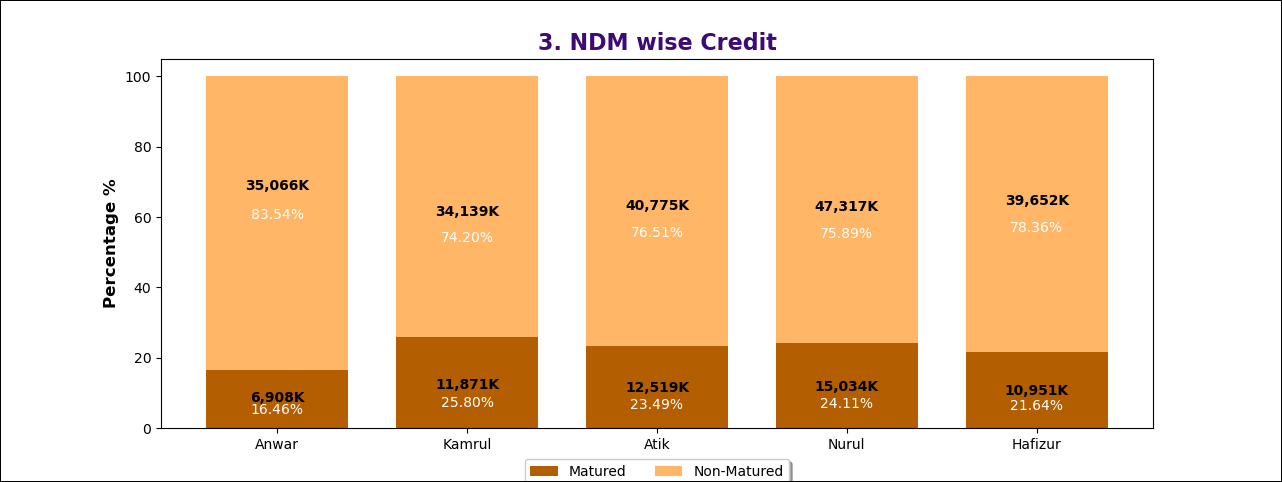
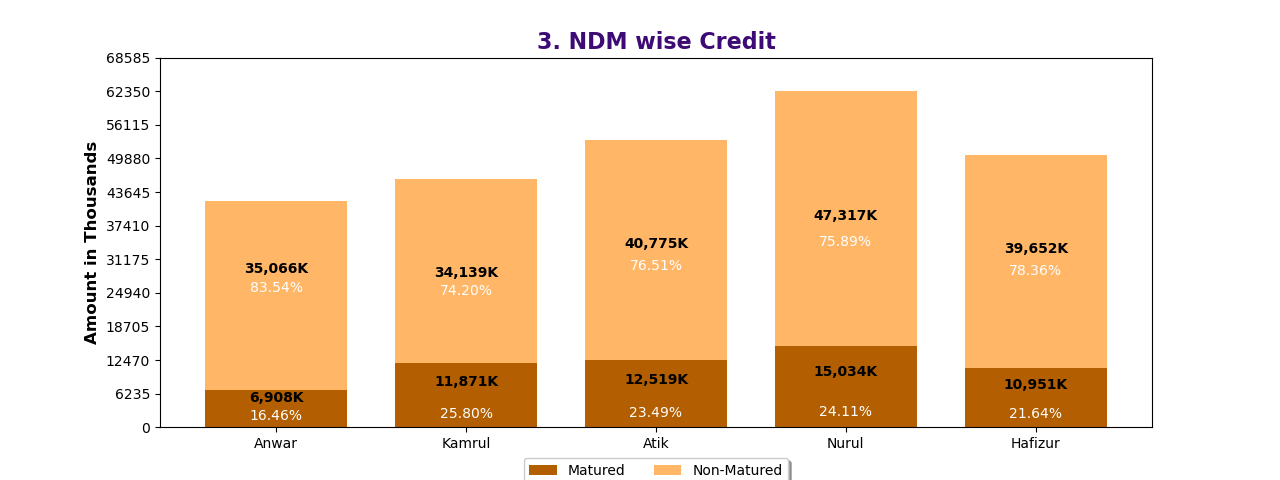
Update ndm credit outstanding

diff --git a/Functions/updated_ndm_outstanding.py b/Functions/updated_ndm_outstanding.py
@@ -1,0 +1,171 @@
+import Functions.all_library as lib
+import Functions.all_function as fn
+
+def ndm_wise_outstanding():
+    anwar_df = lib.pd.read_sql_query("""
+            Select case when Days_Diff>0 then 'Matured Credit' else 'Regular Credit' End as  'Category',Sum(OUT_NET) as Amount from
+            (select INVNUMBER,INVDATE,
+            CUSTOMER,TERMS,MAINCUSTYPE,
+            CustomerInformation.CREDIT_LIMIT_DAYS,
+            datediff([dd] , CONVERT (DATETIME , LTRIM(cust_out.INVDATE) , 102) , GETDATE())+1-CREDIT_LIMIT_DAYS as Days_Diff,
+            OUT_NET from [ARCOUT].dbo.[CUST_OUT]
+            join ARCHIVESKF.dbo.CustomerInformation
+            on [CUST_OUT].CUSTOMER = CustomerInformation.IDCUST
+            where
+            [ARCOUT].dbo.[CUST_OUT].AUDTORG IN ('BOGSKF','MYMSKF', 'FRDSKF', 'TGLSKF', 'RAJSKF', 'SAVSKF') and
+             TERMS<>'Cash') as TblCredit
+            group by case when Days_Diff>0 then 'Matured Credit' else 'Regular Credit' end """, fn.conn)
+
+    anwar_matured = int(anwar_df.Amount.loc[0])
+    anwar_regular = int(anwar_df.Amount.loc[1])
+
+    # # -------------------------------------------------
+    kamrul_df = lib.pd.read_sql_query("""
+            Select case when Days_Diff>0 then 'Matured Credit' else 'Regular Credit' End as  'Category',Sum(OUT_NET) as Amount from
+            (select INVNUMBER,INVDATE,
+            CUSTOMER,TERMS,MAINCUSTYPE,
+            CustomerInformation.CREDIT_LIMIT_DAYS,
+            datediff([dd] , CONVERT (DATETIME , LTRIM(cust_out.INVDATE) , 102) , GETDATE())+1-CREDIT_LIMIT_DAYS as Days_Diff,
+            OUT_NET from [ARCOUT].dbo.[CUST_OUT]
+            join ARCHIVESKF.dbo.CustomerInformation
+            on [CUST_OUT].CUSTOMER = CustomerInformation.IDCUST
+            where
+            [ARCOUT].dbo.[CUST_OUT].AUDTORG IN ('BSLSKF','COMSKF','JESSKF','KHLSKF','MIRSKF','PATSKF') and
+             TERMS<>'Cash') as TblCredit
+            group by case when Days_Diff>0 then 'Matured Credit' else 'Regular Credit' end
+                    """, fn.conn)
+
+    kamrul_matured = int(kamrul_df.Amount.loc[0])
+    kamrul_regular = int(kamrul_df.Amount.loc[1])
+
+    # # --------------------------------------------------
+    atik_df = lib.pd.read_sql_query("""
+            Select case when Days_Diff>0 then 'Matured Credit' else 'Regular Credit' End as  'Category',Sum(OUT_NET) as Amount from
+            (select INVNUMBER,INVDATE,
+            CUSTOMER,TERMS,MAINCUSTYPE,
+            CustomerInformation.CREDIT_LIMIT_DAYS,
+            datediff([dd] , CONVERT (DATETIME , LTRIM(cust_out.INVDATE) , 102) , GETDATE())+1-CREDIT_LIMIT_DAYS as Days_Diff,
+            OUT_NET from [ARCOUT].dbo.[CUST_OUT]
+            join ARCHIVESKF.dbo.CustomerInformation
+            on [CUST_OUT].CUSTOMER = CustomerInformation.IDCUST
+            where
+            [ARCOUT].dbo.[CUST_OUT].AUDTORG IN ('DNJSKF','GZPSKF','HZJSKF','KRNSKF','KSGSKF','MOTSKF','RNGSKF') and
+             TERMS<>'Cash') as TblCredit
+            group by case when Days_Diff>0 then 'Matured Credit' else 'Regular Credit' end
+                            """, fn.conn)
+
+    atik_matured = int(atik_df.Amount.loc[0])
+    atik_regular = int(atik_df.Amount.loc[1])
+
+    # # ---------------------------------------------
+    nurul_df = lib.pd.read_sql_query("""
+            Select case when Days_Diff>0 then 'Matured Credit' else 'Regular Credit' End as  'Category',Sum(OUT_NET) as Amount from
+            (select INVNUMBER,INVDATE,
+            CUSTOMER,TERMS,MAINCUSTYPE,
+            CustomerInformation.CREDIT_LIMIT_DAYS,
+            datediff([dd] , CONVERT (DATETIME , LTRIM(cust_out.INVDATE) , 102) , GETDATE())+1-CREDIT_LIMIT_DAYS as Days_Diff,
+            OUT_NET from [ARCOUT].dbo.[CUST_OUT]
+            join ARCHIVESKF.dbo.CustomerInformation
+            on [CUST_OUT].CUSTOMER = CustomerInformation.IDCUST
+            where
+            [ARCOUT].dbo.[CUST_OUT].AUDTORG IN ('FENSKF','MHKSKF','MLVSKF','NOKSKF','SYLSKF','VRBSKF') and
+             TERMS<>'Cash') as TblCredit
+            group by case when Days_Diff>0 then 'Matured Credit' else 'Regular Credit' end
+                            """, fn.conn)
+
+    nurul_matured = int(nurul_df.Amount.loc[0])
+    nurul_regular = int(nurul_df.Amount.loc[1])
+
+    # # -------------------------------------------
+    hafizur_df = lib.pd.read_sql_query("""
+            Select case when Days_Diff>0 then 'Matured Credit' else 'Regular Credit' End as  'Category',Sum(OUT_NET) as Amount from
+            (select INVNUMBER,INVDATE,
+            CUSTOMER,TERMS,MAINCUSTYPE,
+            CustomerInformation.CREDIT_LIMIT_DAYS,
+            datediff([dd] , CONVERT (DATETIME , LTRIM(cust_out.INVDATE) , 102) , GETDATE())+1-CREDIT_LIMIT_DAYS as Days_Diff,
+            OUT_NET from [ARCOUT].dbo.[CUST_OUT]
+            join ARCHIVESKF.dbo.CustomerInformation
+            on [CUST_OUT].CUSTOMER = CustomerInformation.IDCUST
+            where
+            [ARCOUT].dbo.[CUST_OUT].AUDTORG IN ('COXSKF','CTGSKF','CTNSKF','KUSSKF','NAJSKF','PBNSKF') and
+             TERMS<>'Cash') as TblCredit
+            group by case when Days_Diff>0 then 'Matured Credit' else 'Regular Credit' end
+                                    """, fn.conn)
+
+    hafizur_matured = int(hafizur_df.Amount.loc[0])
+    hafizur_regular = int(hafizur_df.Amount.loc[1])
+
+    # # --------------------- Creating fig-----------------------------------------
+
+    # Data
+    r = [0, 1, 2, 3, 4]
+    data = {'all_matured': [anwar_matured, kamrul_matured, atik_matured, nurul_matured, hafizur_matured],
+            'all_regular': [anwar_regular, kamrul_regular, atik_regular, nurul_regular, hafizur_regular]}
+    df = lib.pd.DataFrame(data)
+
+    # From raw value to percentage
+    totals = [i + j for i, j in zip(df['all_matured'], df['all_regular'])]
+    all_matured_p = [i / j * 100 for i, j in zip(df['all_matured'], totals)]
+    all_regular_p = [i / j * 100 for i, j in zip(df['all_regular'], totals)]
+
+    total = []
+    for x in range(len(totals)):
+        a = int(totals[x]/1000)
+        total.append(a)
+
+    matured = []
+    regular = []
+    for i in range(len(df['all_matured'])):
+        b = int(df['all_matured'][i]/1000)
+        matured.append(b)
+
+    for i in range(len(df['all_regular'])):
+        b = int(df['all_regular'][i]/1000)
+        regular.append(b)
+
+    barWidth = 0.75
+    names = ('Anwar', 'Kamrul', 'Atik', 'Nurul', 'Hafizur')
+
+    fig, ax = lib.plt.subplots(figsize=(12.8, 4.8))
+    # bar0 = lib.plt.bar(r, total, width=barWidth, color=None)
+    bar1 = lib.plt.bar(r, matured, color='#b35e00', label='Matured', width=barWidth)
+    bar2 = lib.plt.bar(r, regular, bottom=matured, color='#ffb667', label='Non-Matured', width=barWidth)
+
+    # # Set Matured Data Point
+    matured = [anwar_matured, kamrul_matured, atik_matured, nurul_matured, hafizur_matured]
+    for bar, matured, all_matured in zip(bar1, matured, all_matured_p):
+        height = bar.get_height()
+        # # This text is for actual matured data label
+        ax.text(bar.get_x() + bar.get_width() / 2, height * .6,
+                str(fn.numberInThousands(matured)),
+                ha='center', va='bottom', fontweight='bold')
+
+        # # This text is for percentage
+        ax.text(bar.get_x() + bar.get_width() / 2, height * .1,
+                str("%.2f" % all_matured) + '%',
+                ha='center', va='bottom', color='white')
+
+    # # Set Non Mature Data Point
+    regular = [anwar_regular, kamrul_regular, atik_regular, nurul_regular, hafizur_regular]
+    for bar, regular, all_regular in zip(bar2, regular, all_regular_p):
+        height = bar.get_height()
+        ax.text(bar.get_x() + bar.get_width() / 2, height * .8,
+                str(fn.numberInThousands(regular)),
+                ha='center', va='bottom', fontweight='bold')
+
+        # # This text is for percentage
+        ax.text(bar.get_x() + bar.get_width() / 2, height * .7,
+                str("%.2f" % all_regular) + '%',
+                ha='center', va='bottom', color='white')
+
+    lib.plt.xticks(r, names)
+    max_total = max(totals)/1000
+
+    lib.plt.yticks(lib.np.arange(0, int(max_total) + max_total/10, int(max_total/10)))
+    lib.plt.ylabel("Amount in Thousands", fontweight='bold', fontsize=12)
+    lib.plt.title('3. NDM wise Credit', fontsize=16, fontweight='bold', color='#3e0a75')
+    lib.plt.legend(loc='upper center', bbox_to_anchor=(0.5, -0.065),
+                   fancybox=True, shadow=True, ncol=4)
+    print('3. NDM wise Credit Outstanding')
+    lib.plt.savefig('./Images/3.ndm_credit_outstanding.png')
+    # lib.plt.show()

diff --git a/generate_all_kpi.py b/generate_all_kpi.py
@@ -1,65 +1,69 @@
-#
-# # # --------- 1. Total Outstanding -------------------------------
-import Functions.outstanding as out
-out.totalOutstanding()
-
-# # ------- 2. Credit Outstanding -----------------------------------
-import Functions.credit_outstanding as credit
-credit.creditOutstanding()
-
-# ---. 3. NDM wise credit outstanding -------------------------------
-import Functions.ndm_outstanding as ndm_out
-ndm_out.ndm_wise_outstanding()
-#
-# # # ---- 4. matured credit aging ----------------------------------
-import Functions.matured_credit_aging as ndm_matured
-ndm_matured.matured_credit()
 # #
-# # # # ----- 5. NDM matured credit aging ---------------------------
-import Functions.ndm_matured_credit_aging as ndm_aging
-ndm_aging.ndm_matured_credit_aging()
+# # # # --------- 1. Total Outstanding -------------------------------
+# import Functions.outstanding as out
+# out.totalOutstanding()
 #
-# # -------- 6. Branch wise matured  credit aging  -------------------
-import Functions.branch_wise_matured_crdit as branch_matured
-branch_matured.branch_wise_matured_credit()
+# # # ------- 2. Credit Outstanding -----------------------------------
+# import Functions.credit_outstanding as credit
+# credit.creditOutstanding()
 #
-# # # -- 7. Total Non-matured credit aging ---------------------------
-import Functions.total_non_matured_credit_aging as non_matured_credit
-non_matured_credit.total_non_matured_credit_aging()
+# # ---. 3. NDM wise credit outstanding -------------------------------
+# import Functions.ndm_outstanding as ndm_out
+# ndm_out.ndm_wise_outstanding()
 
-# # -- 8. NDM wise non-matured credit aging --------------------------
-import Functions.ndm_non_matured_credit_aging as ndm_non_matured
-ndm_non_matured.ndm_non_matured_credit_aging()
-
-# # --- 9. Branch wise non-matured credit aging --------------------
-import Functions.branch_wise_non_matured_credit as branch_non_matured
-branch_non_matured.branch_wise_non_matured_credit()
-
-# # ---10. Total Cash Drop Aging ----------------------------------
-import Functions.total_cashdrop_aging as cash_drop
-cash_drop.cashdrop_aging()
-
-# # ------------11. NDM wise cash drop aging ----------------------
-import Functions.NDM_wise_cash_drop_aging as ndm_cash_drop
-ndm_cash_drop.ndm_cash_drop()
-
-# # -- 12. Branch wise cash drop aging ----------------
-import Functions.branch_wise_cash_drop_aging as branch_cash_drop
-branch_cash_drop.branch_wise_cash_drop_aging()
-
-# # ------ 13. Nation wide return ---------------------------------
-import Functions.nation_wise_return as nation_return
-nation_return.nation_wide_return()
+# # --- 3.(Updated) NDM wise credit outstanding ------------------------
+import Functions.updated_ndm_outstanding as up_ndm_out
+up_ndm_out.ndm_wise_outstanding()
 #
-# # # -------14. Nation VS NDM Return ----------------------------
-import Functions.national_vs_ndm_return as nation_vs_ndm
-nation_vs_ndm.national_vs_ndm_return()
-
-# # -------15. Top 5 Branch Return -------------------------------
-import Functions.top10_branch_return as top5_branch
-top5_branch.top10_branch_return()
-
-# # ----  16.Top 5 Delivery Persons Return Amount ----------------
-import Functions.top10_delivery_person as delivery_persons_return
-delivery_persons_return.top10_delivery_persons_return()
+# # # # ---- 4. matured credit aging ----------------------------------
+# import Functions.matured_credit_aging as ndm_matured
+# ndm_matured.matured_credit()
+# # #
+# # # # # ----- 5. NDM matured credit aging ---------------------------
+# import Functions.ndm_matured_credit_aging as ndm_aging
+# ndm_aging.ndm_matured_credit_aging()
+# #
+# # # -------- 6. Branch wise matured  credit aging  -------------------
+# import Functions.branch_wise_matured_crdit as branch_matured
+# branch_matured.branch_wise_matured_credit()
+# #
+# # # # -- 7. Total Non-matured credit aging ---------------------------
+# import Functions.total_non_matured_credit_aging as non_matured_credit
+# non_matured_credit.total_non_matured_credit_aging()
 #
+# # # -- 8. NDM wise non-matured credit aging --------------------------
+# import Functions.ndm_non_matured_credit_aging as ndm_non_matured
+# ndm_non_matured.ndm_non_matured_credit_aging()
+#
+# # # --- 9. Branch wise non-matured credit aging --------------------
+# import Functions.branch_wise_non_matured_credit as branch_non_matured
+# branch_non_matured.branch_wise_non_matured_credit()
+#
+# # # ---10. Total Cash Drop Aging ----------------------------------
+# import Functions.total_cashdrop_aging as cash_drop
+# cash_drop.cashdrop_aging()
+#
+# # # ------------11. NDM wise cash drop aging ----------------------
+# import Functions.NDM_wise_cash_drop_aging as ndm_cash_drop
+# ndm_cash_drop.ndm_cash_drop()
+#
+# # # -- 12. Branch wise cash drop aging ----------------
+# import Functions.branch_wise_cash_drop_aging as branch_cash_drop
+# branch_cash_drop.branch_wise_cash_drop_aging()
+#
+# # # ------ 13. Nation wide return ---------------------------------
+# import Functions.nation_wise_return as nation_return
+# nation_return.nation_wide_return()
+# #
+# # # # -------14. Nation VS NDM Return ----------------------------
+# import Functions.national_vs_ndm_return as nation_vs_ndm
+# nation_vs_ndm.national_vs_ndm_return()
+#
+# # # -------15. Top 5 Branch Return -------------------------------
+# import Functions.top10_branch_return as top5_branch
+# top5_branch.top10_branch_return()
+#
+# # # ----  16.Top 5 Delivery Persons Return Amount ----------------
+# import Functions.top10_delivery_person as delivery_persons_return
+# delivery_persons_return.top10_delivery_persons_return()
+# #
